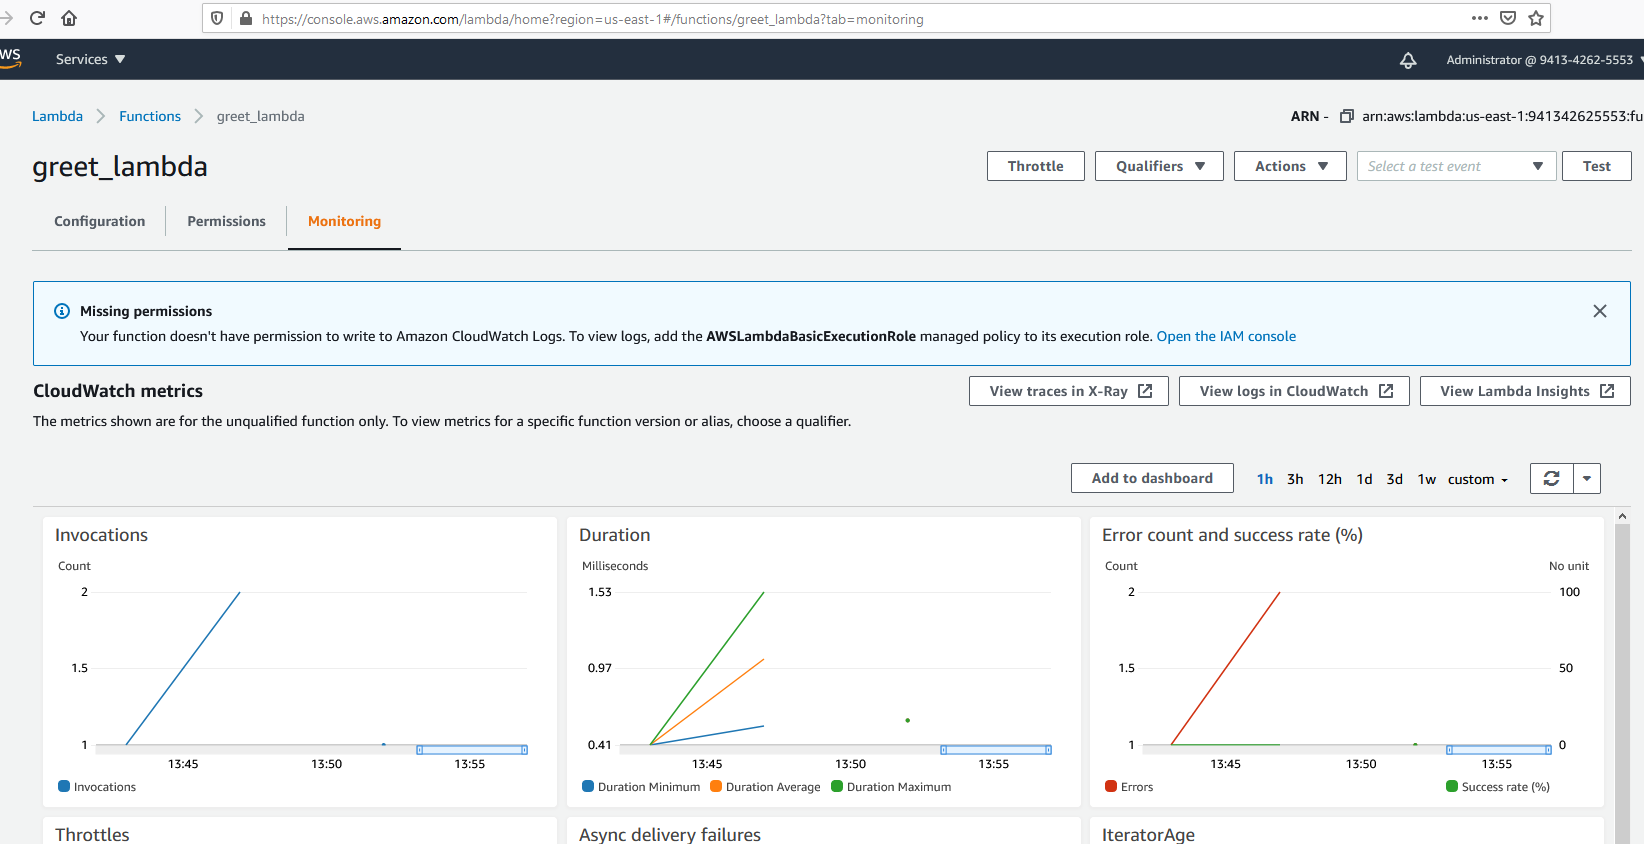
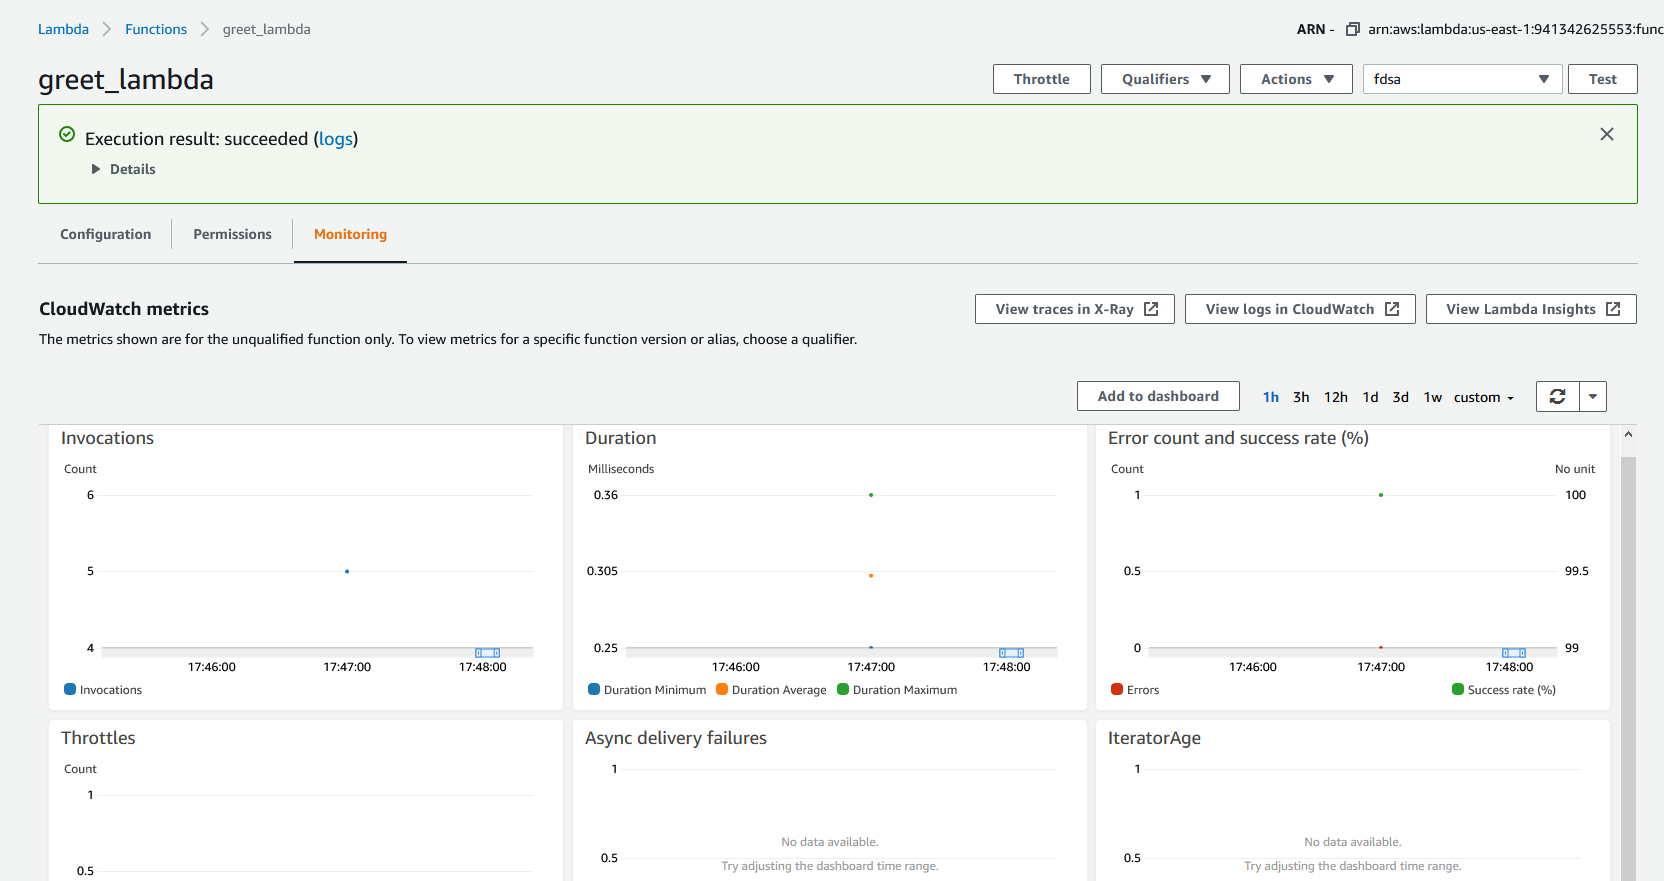
Review comments and tips resolved

diff --git a/Readme.md b/Readme.md
@@ -5,10 +5,10 @@ This READ ME file simply shows the results and adds some comments.
 
 
 ### Questions from my side
-1. I could not find Cloud trail logs in CSV format! Where should i find it. [See details here](#cloudtrail-log)
-2. My cost monitoring alarm remains in insufficient data state. Why? [See details here](#cost-monitoring)
-3. I could not find Logs for lambda. Why [See details here](#lambda-logs)
-4. What is the exercise about the VPC and EC2 instances in connection with the lambda function?
+1. Cloud trail logs in CSV format found! :)
+2. Cost monitor now working. Unit was not selected.
+3. Lambda logs defined and attached.
+4. What is the exercise about the VPC and EC2 instances in connection with the lambda function? I guess they are not relevant. Or i should configure VPC for the lambda? There are some complexity there..
 
 
 
@@ -109,16 +109,8 @@ Users and Groups have been created:
 ![ReviewersAccountants](Task3/users-and-groups.png)
 
 ## Logs for Cloudtrail in CSV {#cloudtrail-log}
+![logs](Task3\UdacityCloudTrailLog.csv )
 
-Logs as CSV was not found.
-I could only find these log files.
-
-```
-Task3/941342625553_CloudTrail_us-east-1_20201108T2000Z_cv0yHZaYW9f7LIfG.json(1).gz 
-->
-941342625553_CloudTrail_us-east-1_20201108T2000Z_cv0yHZaYW9f7LIfG.json(1)
-
-```
 
 # Task 4 Cost Monitoring {#cost-monitoring}
 
@@ -133,6 +125,7 @@ I could create cost monitoring, but remained in "Insufficient Data" state...
 
 All done: 
 Source files provided:
+TAGS have been added...
 
 - Task5/Exercise1/main.tf
 
@@ -155,13 +148,80 @@ Lambda function was deployed:
 
 ![EC2-1](Task5/lambda_deployed.png)
 
+lambda permission set....
+![permissions](Task5\lamba_permissions.png)
+
 Lambda function was invoked with success and also with errors:
 ![EC2-1](Task5/lambda_monitor.png)
 
 ### Logs for lambda {#lambda-logs}
-Logs in CloudTrail for Lambda i could not find... why?
-![EC2-1](Task5/log_groups.png)
+![EC2-1](Task5/Terraform_2_3.png)
 
 
+# Task 6 Destoying
+## EC2 Destroy - Terraform_destroyed.png
+![EC2-3](Task6\Terraform_destroyed.png)
 
+
+```
+Plan: 0 to add, 0 to change, 4 to destroy.
+
+Do you really want to destroy all resources?
+  Terraform will destroy all your managed infrastructure, as shown above.
+  There is no undo. Only 'yes' will be accepted to confirm.
+
+  Enter a value: yes
+
+aws_instance.UdacityT2[3]: Destroying... [id=i-070d49a1f97547be6]
+aws_instance.UdacityT2[0]: Destroying... [id=i-0f06ab51c547c4b0a]
+aws_instance.UdacityT2[1]: Destroying... [id=i-0e8054251527f7f57]
+aws_instance.UdacityT2[2]: Destroying... [id=i-09242b22581d21115]
+aws_instance.UdacityT2[2]: Still destroying... [id=i-09242b22581d21115, 10s elapsed]
+aws_instance.UdacityT2[3]: Still destroying... [id=i-070d49a1f97547be6, 10s elapsed]
+aws_instance.UdacityT2[1]: Still destroying... [id=i-0e8054251527f7f57, 10s elapsed]
+aws_instance.UdacityT2[0]: Still destroying... [id=i-0f06ab51c547c4b0a, 10s elapsed]
+aws_instance.UdacityT2[3]: Still destroying... [id=i-070d49a1f97547be6, 20s elapsed]
+aws_instance.UdacityT2[1]: Still destroying... [id=i-0e8054251527f7f57, 20s elapsed]
+aws_instance.UdacityT2[0]: Still destroying... [id=i-0f06ab51c547c4b0a, 20s elapsed]
+aws_instance.UdacityT2[2]: Still destroying... [id=i-09242b22581d21115, 20s elapsed]
+aws_instance.UdacityT2[0]: Still destroying... [id=i-0f06ab51c547c4b0a, 30s elapsed]
+aws_instance.UdacityT2[1]: Still destroying... [id=i-0e8054251527f7f57, 30s elapsed]
+aws_instance.UdacityT2[2]: Still destroying... [id=i-09242b22581d21115, 30s elapsed]
+aws_instance.UdacityT2[3]: Still destroying... [id=i-070d49a1f97547be6, 30s elapsed]
+aws_instance.UdacityT2[3]: Destruction complete after 32s
+aws_instance.UdacityT2[2]: Destruction complete after 32s
+aws_instance.UdacityT2[1]: Destruction complete after 32s
+aws_instance.UdacityT2[0]: Still destroying... [id=i-0f06ab51c547c4b0a, 40s elapsed]
+aws_instance.UdacityT2[0]: Still destroying... [id=i-0f06ab51c547c4b0a, 50s elapsed]
+aws_instance.UdacityT2[0]: Destruction complete after 53s
+
+Destroy complete! Resources: 4 destroyed.
+```
+
+
+## Lambda Destroy
+
+```
+Plan: 0 to add, 0 to change, 4 to destroy.
+
+Changes to Outputs:
+  - lambda_name = "greet_lambda" -> null
+
+Do you really want to destroy all resources?
+  Terraform will destroy all your managed infrastructure, as shown above.
+  There is no undo. Only 'yes' will be accepted to confirm.
+
+  Enter a value: yes
+
+aws_iam_role_policy_attachment.lambda_logs: Destroying... [id=iam_role_for_lambda-20201111174403233800000001]
+module.lambda.aws_lambda_function.lambda: Destroying... [id=greet_lambda]
+aws_iam_role_policy_attachment.lambda_logs: Destruction complete after 1s
+aws_iam_policy.lambda_logging: Destroying... [id=arn:aws:iam::941342625553:policy/lambda_logging]
+module.lambda.aws_lambda_function.lambda: Destruction complete after 1s
+aws_iam_role.iam_role_for_lambda: Destroying... [id=iam_role_for_lambda]
+aws_iam_policy.lambda_logging: Destruction complete after 1s
+aws_iam_role.iam_role_for_lambda: Destruction complete after 1s
+
+Destroy complete! Resources: 4 destroyed.
+```
 
